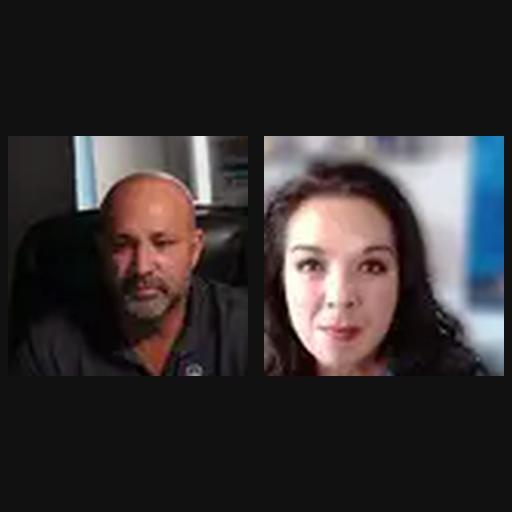
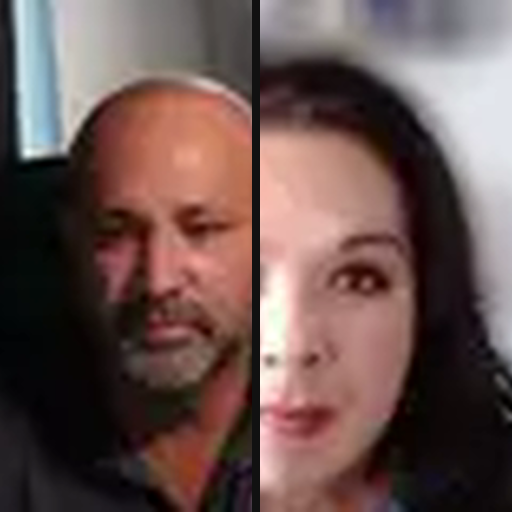
fix(partners): emphasize podcast headshots

diff --git a/src/components/sections/PlatinumSponsors.tsx b/src/components/sections/PlatinumSponsors.tsx
@@ -39,7 +39,7 @@ const PlatinumSponsors = () => {
                 target="_blank"
                 rel="sponsored noopener noreferrer"
                 aria-label={`Visit ${partner.name} website (opens in a new tab)`}
-                className={`group relative flex min-h-40 items-center justify-center bg-white px-8 py-12 transition-colors duration-300 hover:bg-[hsl(0,0%,98%)] focus-visible:z-10 focus-visible:outline-none focus-visible:ring-4 focus-visible:ring-[hsl(var(--secondary))] focus-visible:ring-inset md:min-h-52 md:px-14 ${partner.podcast ? "pb-20 md:pb-20" : ""}`}
+                className={`group relative flex min-h-40 items-center justify-center bg-white px-8 py-12 transition-colors duration-300 hover:bg-[hsl(0,0%,98%)] focus-visible:z-10 focus-visible:outline-none focus-visible:ring-4 focus-visible:ring-[hsl(var(--secondary))] focus-visible:ring-inset md:min-h-52 md:px-14 ${"podcast" in partner && partner.podcast ? "pb-20 md:pb-20" : ""}`}
               >
                 <span className="absolute left-4 top-4 text-[10px] font-semibold tracking-[0.2em] text-black/35 md:left-5 md:top-5">
                   {String(index + 1).padStart(2, "0")}
@@ -54,7 +54,7 @@ const PlatinumSponsors = () => {
                   className="max-h-16 w-full max-w-[28rem] object-contain transition-transform duration-300 ease-out group-hover:scale-[1.025] md:max-h-24"
                 />
               </a>
-              {partner.podcast && <PartnerPodcastModal podcast={partner.podcast} />}
+              {"podcast" in partner && partner.podcast && <PartnerPodcastModal podcast={partner.podcast} />}
             </li>
           ))}
         </ul>

diff --git a/src/components/PartnerPodcastModal.tsx b/src/components/PartnerPodcastModal.tsx
@@ -77,7 +77,7 @@ const PartnerPodcastModal = ({ podcast }: PartnerPodcastModalProps) => {
                 alt={`${podcast.guestName}, ${podcast.company}`}
                 width={podcast.headshotWidth}
                 height={podcast.headshotHeight}
-                className="mb-6 h-24 w-24 rounded-2xl object-cover sm:h-28 sm:w-28"
+                className="mb-6 h-28 w-28 rounded-2xl object-cover ring-1 ring-white/15 sm:h-32 sm:w-32"
               />
               <h2 className="text-3xl font-black tracking-[-0.035em] text-white sm:text-4xl">
                 {podcast.guestName}

diff --git a/src/components/sections/EventSponsors.tsx b/src/components/sections/EventSponsors.tsx
@@ -95,7 +95,7 @@ const EventSponsors = () => {
         <ul className="grid border-l border-t border-black/15 sm:grid-cols-2 lg:grid-cols-3" aria-label="Formula Forum 2026 sponsors">
           {CONFIG.LOGO_SPONSORS.map((sponsor, index) => {
             const tile = DARK_TILES[sponsor.name] ?? "bg-white";
-            const podcast = sponsor.podcast;
+            const podcast = "podcast" in sponsor ? sponsor.podcast : undefined;
             const logo = (
               <img
                 src={sponsor.logoUrl}
